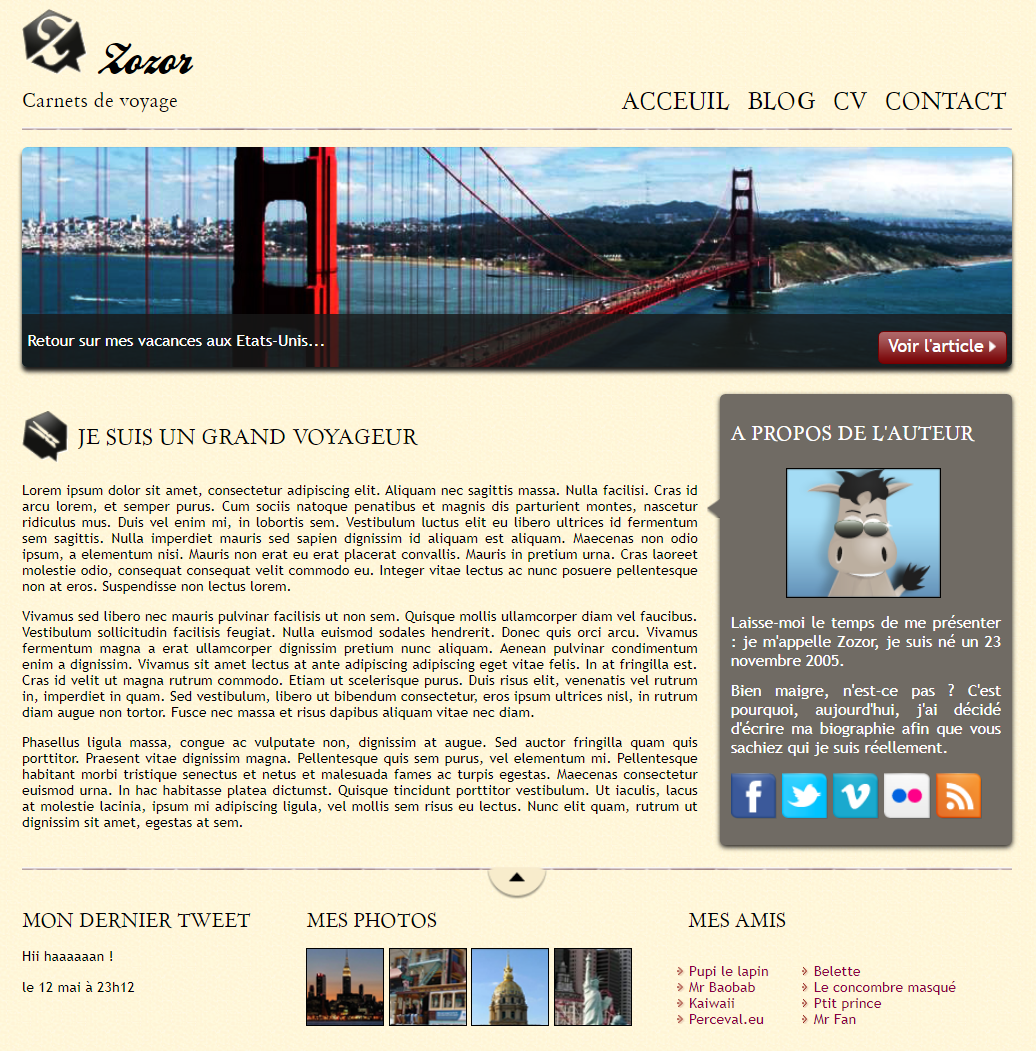
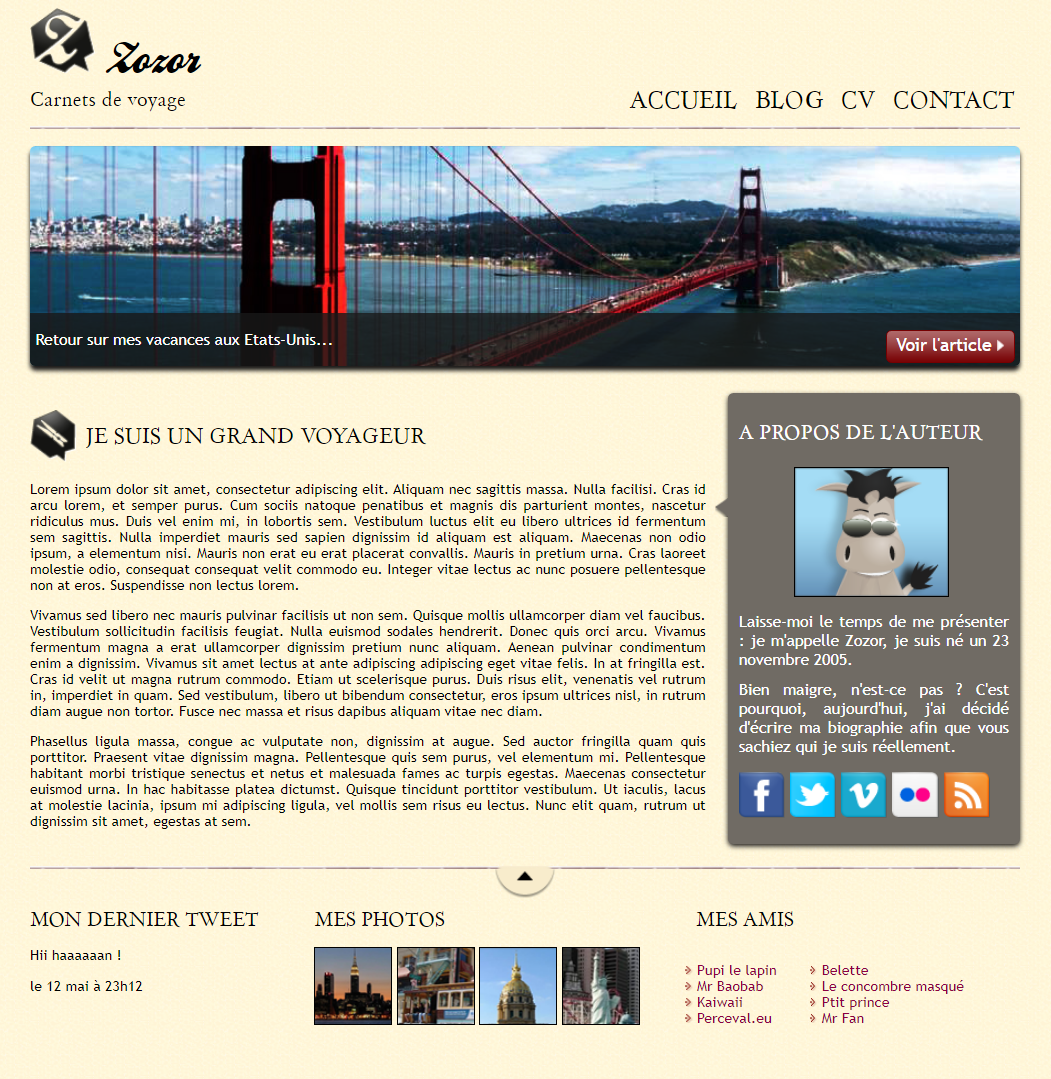
Responsive done

diff --git a/css/style.css b/css/style.css
@@ -20,7 +20,7 @@ h2 {
 
 section,
 footer {
-  padding: 5% 20%;
+  padding: 5% 15%;
 }
 
 .light-section {
@@ -81,7 +81,7 @@ footer {
 /* Nav Bar */
 
 #navbar-target {
-  padding: 8px 20%;
+  padding: 8px 15%;
 }
 
 .navbar-toggler {
@@ -151,13 +151,16 @@ footer {
 }
 
 /* Projects */
-.row {
-  justify-content: space-between !important;
+
+.all-project-container {
+  max-width: 1125px !important;
+  margin: 0 auto; /* Need min-margin 0*/
 }
 
 .project-container {
   position: relative;
   min-width: 325px !important;
+  max-width: 375px !important;
   width: 33.33333%;
   padding: 22.2222% 0 0;
 }
@@ -251,29 +254,15 @@ footer {
   margin: 15px 0 0;
 }
 
-/*--------------- Responsive ---------------*/
+/*--------------------------------------------- Responsive ---------------------------------------------*/
 
-/* Media query for the project section */
+/* First breaking point for the project section (less than 1650px) */
 
-@media (max-width: 1650px) {
-  /* Sections */
-
-  section,
-  footer {
-    padding: 5% 15%;
-  }
-
-  /* Nav */
-
-  #navbar-target {
-    padding: 8px 15%;
-  }
-
+@media (max-width: 1649.98px) {
   /* Projects */
 
   .all-project-container {
     width: 650px !important;
-    margin: 0 auto;
   }
 
   .project-container {
@@ -354,16 +343,63 @@ footer {
   }
 }
 
-/* Small devices (landscape phones, less than 768px) */
-@media (max-width: 767.98px) {
+/* Second breaking point for the project section (less than 850px) */
+@media (max-width: 849.98px) {
   /* Projects */
 
+  .cf-project {
+    padding: 0 !important;
+  }
+
   .all-project-container {
-    width: 350px !important;
+    max-width: 325px !important;
   }
 
   .project-container {
     padding: 66.6666% 0 0 !important;
     margin: 0 auto;
+  }
+}
+
+/* Small devices (landscape phones, less than 768px) */
+@media (max-width: 767.98px) {
+  /* Nav Bar */
+
+  .navbar-toggler {
+    padding: 0;
+  }
+
+  #navbar-target {
+    padding: 8px 5%;
+  }
+
+  /* Sections */
+
+  section,
+  footer {
+    padding: 5% 5%;
+  }
+
+  /* Modal */
+
+  .modal-dialog {
+    max-width: none !important;
+    margin: 0 5%;
+  }
+
+  /* Home */
+
+  .big-tittle {
+    font-size: 2.3rem;
+  }
+
+  .self-description {
+    padding: unset;
+  }
+
+  /* Skills */
+
+  .skill-title {
+    margin: 5% 0 2%;
   }
 }

diff --git a/index.html b/index.html
@@ -2,6 +2,7 @@
 <html lang="fr">
   <head>
     <meta charset="UTF-8" />
+    <meta name="viewport" content="width=device-width, initial-scale=1" />
     <title>Théo Bernard</title>
     <link rel="icon" href="images/favicon.ico" />
     <script src="js/main.js"></script>
@@ -246,7 +247,7 @@
 
     <!-- Projects -->
     <section id="projets" class="light-section">
-      <div class="container-fluid">
+      <div class="container-fluid cf-project">
         <h2 class="section-title">Projets</h2>
         <div class="row all-project-container">
           <div class="project-container project1 shadow border">

diff --git a/js/main.js b/js/main.js
@@ -18,7 +18,7 @@ function tindogFunction() {
   document.getElementById("modal-tech-list").innerHTML =
     "HTML - CSS - Bootstrap";
   document.getElementById("modal-description").innerHTML =
-    "Page de présentation fictive de l'application Tindog, ce projet est mon plus récent. C'est le premier réalisé avec Bootstrap et completement responsive.";
+    "Page de présentation fictive de l'application Tindog, ce projet est mon plus récent. C'est également le premier réalisé avec Bootstrap.";
   document.getElementById("modal-button").href =
     "https://github.com/TheoBernard97/Tindog";
 }

diff --git a/README.md b/README.md
@@ -1,3 +1,3 @@
-# Portfolio2
+# Portfolio
 
-The 2nd version of my online portfolio.
+My personnal website/portfolio, you can download my resume, check my projects or contact me.
